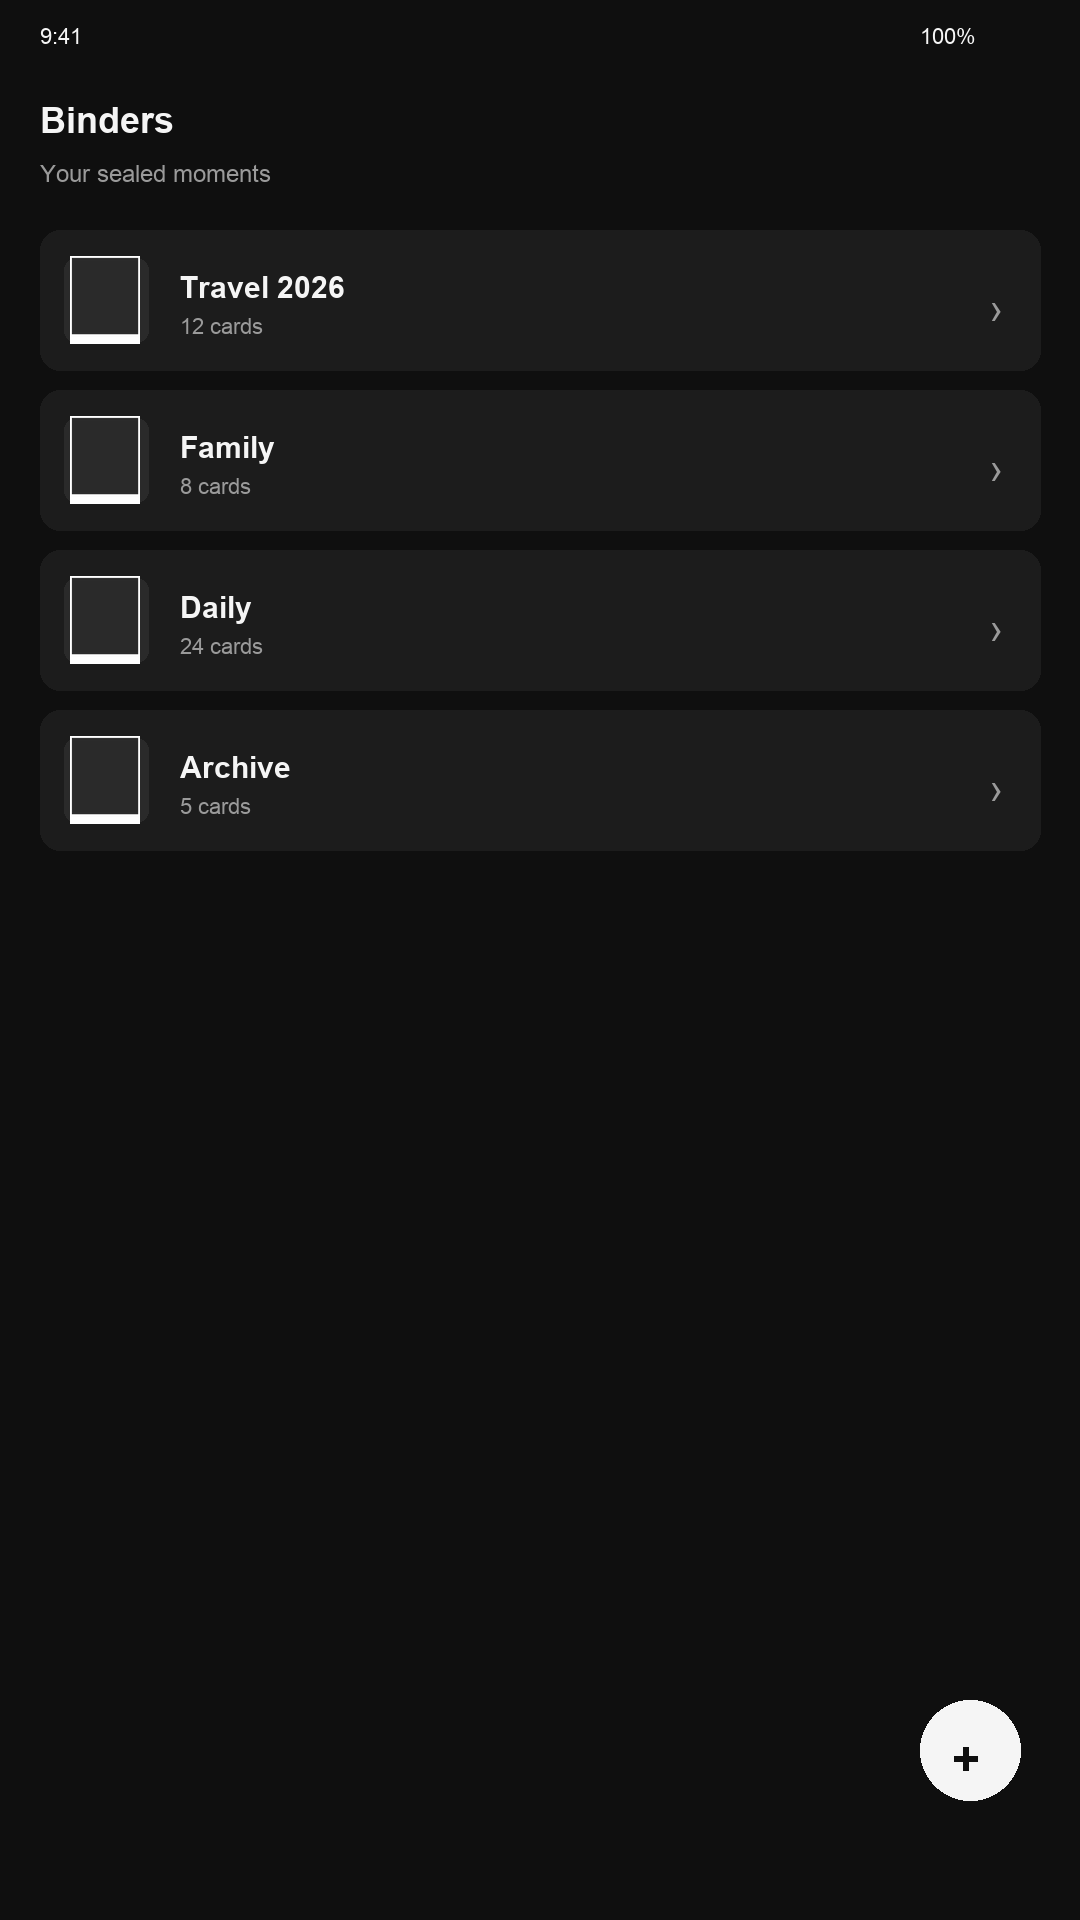
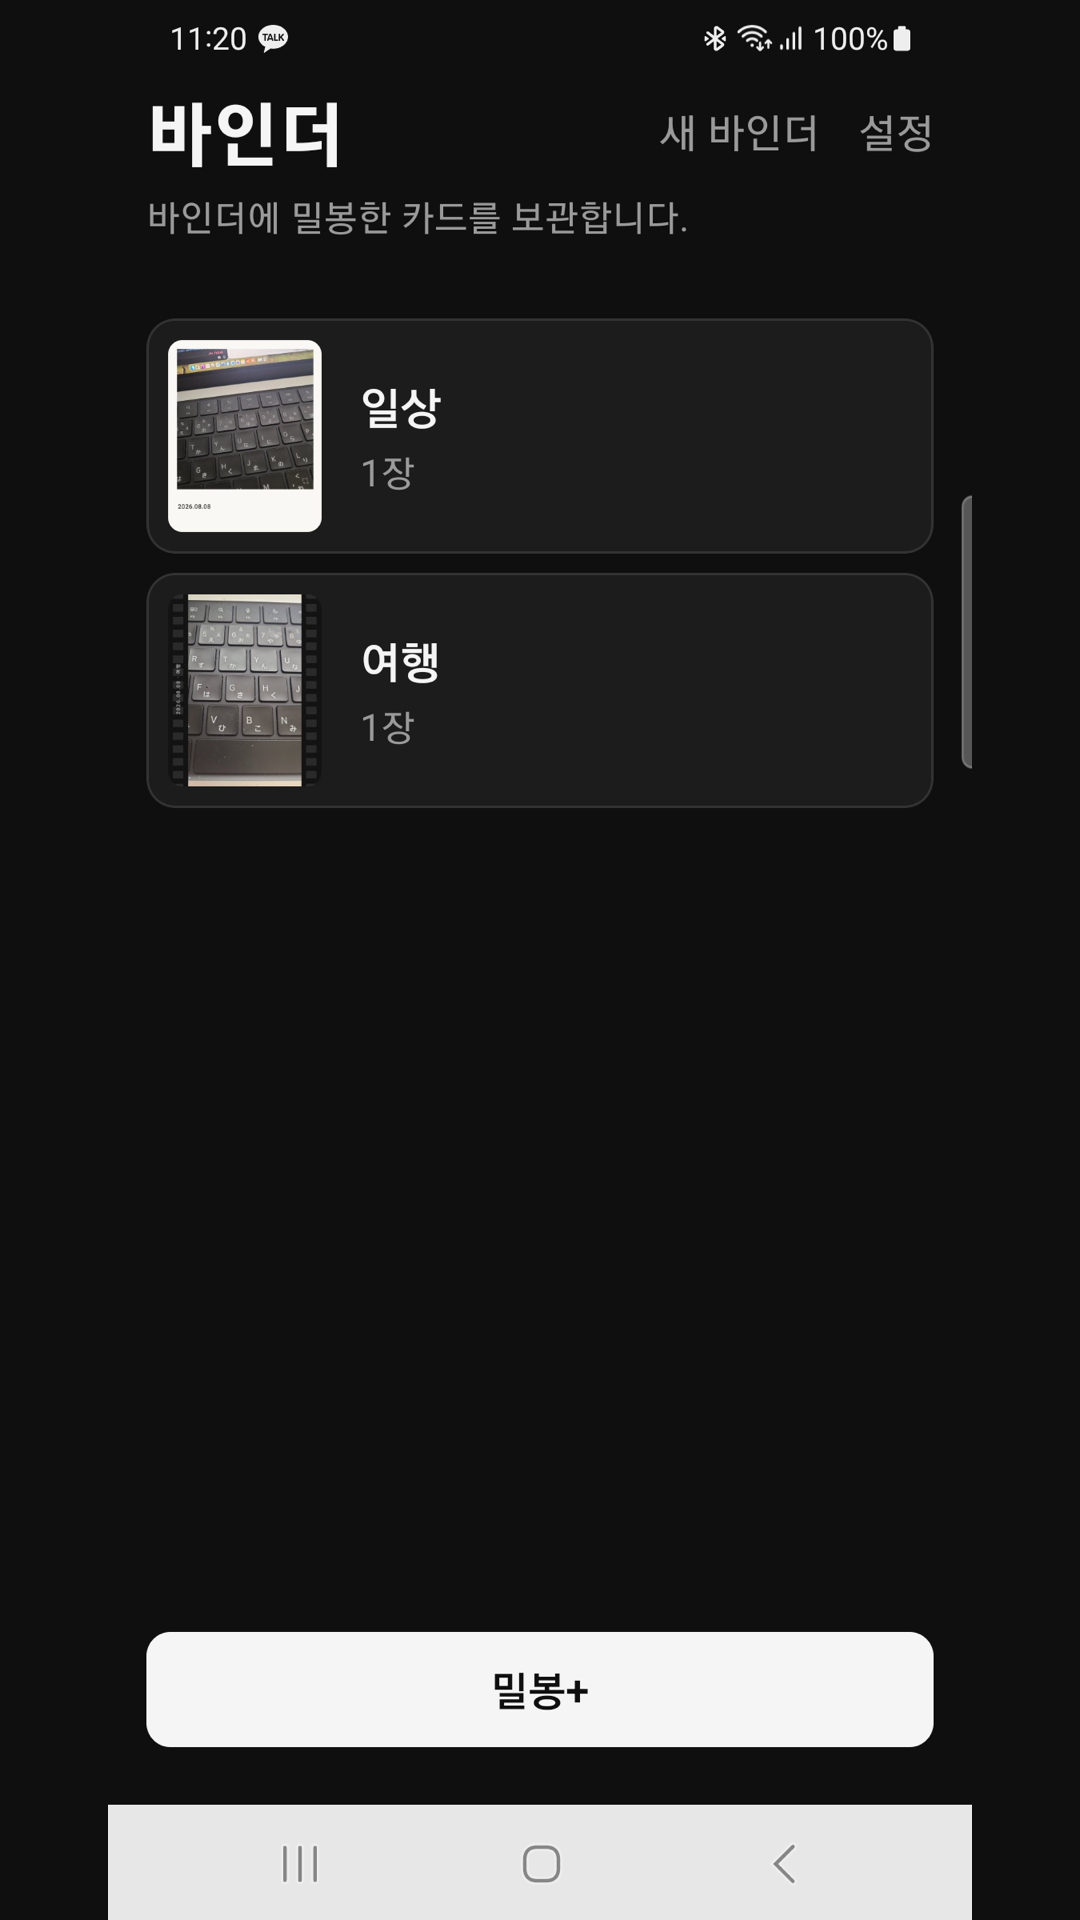
assets(store): replace listing screenshots with real device captures
Swap the English mockups for four SM-G981N captures of the shipping UI:
binder list, card grid, card detail, and the move-to-binder sheet. Scaled
1080x2400 down to 864x1920 and padded to 1080x1920 with the app background
so the shots land inside Play's 9:16 aspect limit without cropping.

diff --git a/mobile/store/play-console-default-listing.md b/mobile/store/play-console-default-listing.md
@@ -14,8 +14,10 @@ Play Console → **성장 → 스토어 등록정보 → 기본 스토어 등록
 |------|------|------|
 | 앱 아이콘 | `store/assets/icon-512.png` | 512×512 PNG |
 | 특집 그래픽 | `store/assets/feature-graphic-1024x500.png` | 1024×500 PNG |
-| 휴대전화 스크린샷 1 | `store/assets/screenshots/01-binders.png` | 최소 2장 |
-| 휴대전화 스크린샷 2 | `store/assets/screenshots/02-binder-grid.png` | |
+| 휴대전화 스크린샷 1 | `store/assets/screenshots/01-binders.png` | 1080×1920 (9:16) |
+| 휴대전화 스크린샷 2 | `store/assets/screenshots/02-binder-grid.png` | 1080×1920 |
+| 휴대전화 스크린샷 3 | `store/assets/screenshots/03-card-detail.png` | 1080×1920 |
+| 휴대전화 스크린샷 4 | `store/assets/screenshots/04-move-binder.png` | 1080×1920 |
 
 - 태블릿/웨어 OS 스크린샷: 없음 (해당 없음 시 생략)
 - 동영상: 없음 (선택)
